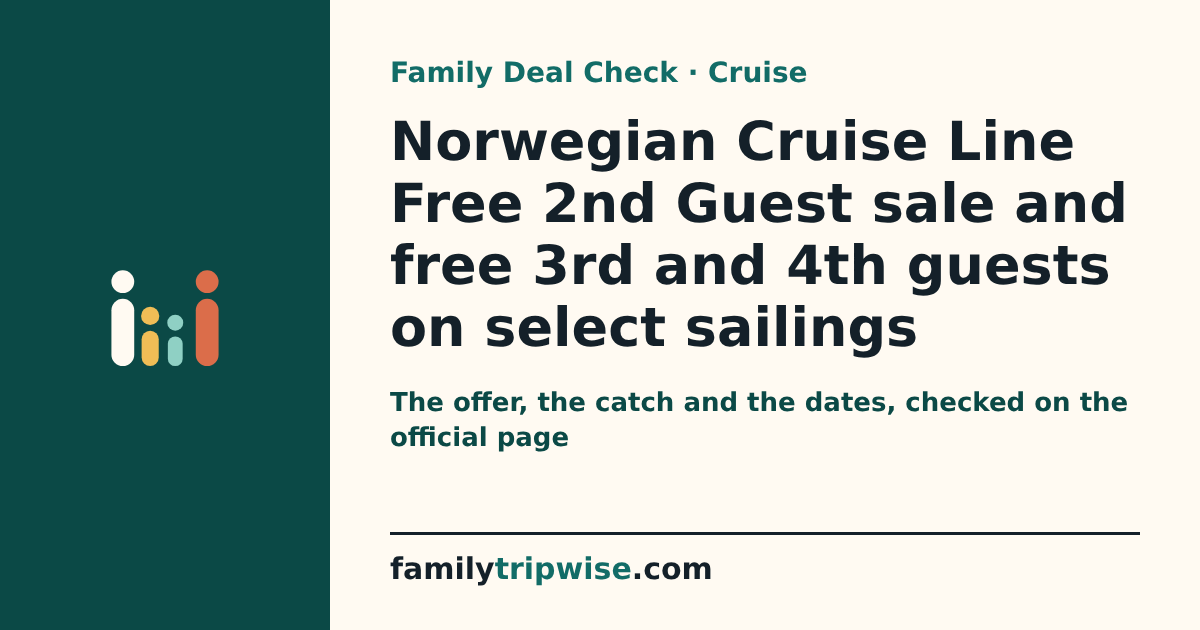
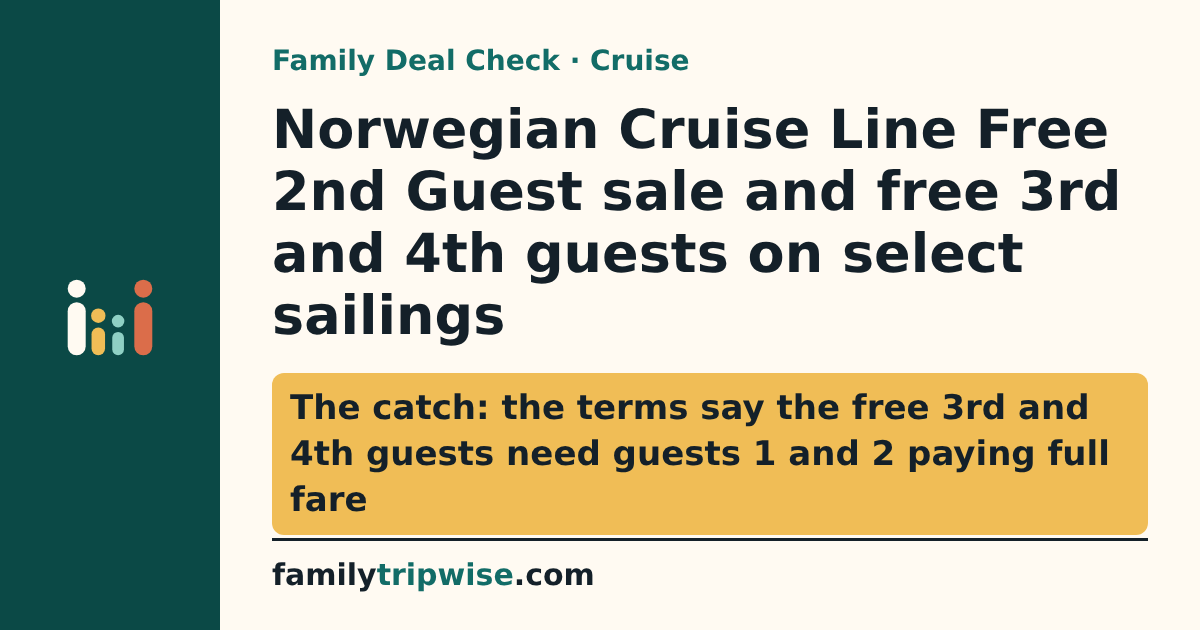
G13 persona cycle 2: per-deal cards quote the page's catch, larger type; card text manifest + staleness test; plainer deals card line; accurate alts
Claude-Session: https://claude.ai/code/session_018uWk6uZGPbEmhYkb1zd9P3

diff --git a/site/deals/norwegian-free-2nd-guest-3rd-4th-free.html b/site/deals/norwegian-free-2nd-guest-3rd-4th-free.html
@@ -15,7 +15,7 @@
     <meta property="og:image:type" content="image/png">
     <meta property="og:image:width" content="1200">
     <meta property="og:image:height" content="630">
-    <meta property="og:image:alt" content="Family Deal Check from Family Tripwise: the offer, the catch and the dates, checked on the official page">
+    <meta property="og:image:alt" content="Family Deal Check: Norwegian Cruise Line Free 2nd Guest sale and free 3rd and 4th guests on select sailings. The catch: the terms say the free 3rd and 4th guests need guests 1 and 2 paying full fare">
     <meta name="twitter:card" content="summary_large_image">
     <link rel="stylesheet" href="../styles.css">
   </head>

diff --git a/site/deals/atlantis-bahamas-fall-into-paradise.html b/site/deals/atlantis-bahamas-fall-into-paradise.html
@@ -15,7 +15,7 @@
     <meta property="og:image:type" content="image/png">
     <meta property="og:image:width" content="1200">
     <meta property="og:image:height" content="630">
-    <meta property="og:image:alt" content="Family Deal Check from Family Tripwise: the offer, the catch and the dates, checked on the official page">
+    <meta property="og:image:alt" content="Family Deal Check: Atlantis Bahamas Fall Into Paradise: up to 35% off 4+ nights, $250 resort credit. The catch: Thanksgiving week and mid-December to January 1 are blacked out">
     <meta name="twitter:card" content="summary_large_image">
     <link rel="stylesheet" href="../styles.css">
   </head>

diff --git a/site/deals/margaritaville-at-sea-black-friday-early-access.html b/site/deals/margaritaville-at-sea-black-friday-early-access.html
@@ -15,7 +15,7 @@
     <meta property="og:image:type" content="image/png">
     <meta property="og:image:width" content="1200">
     <meta property="og:image:height" content="630">
-    <meta property="og:image:alt" content="Family Deal Check from Family Tripwise: the offer, the catch and the dates, checked on the official page">
+    <meta property="og:image:alt" content="Family Deal Check: Margaritaville at Sea Black Friday Early Access: 3rd and 4th guests sail free. The catch: taxes, fees and port expenses still apply to every guest">
     <meta name="twitter:card" content="summary_large_image">
     <link rel="stylesheet" href="../styles.css">
   </head>

diff --git a/site/deals/msc-cruises-35-off-kids-sail-free.html b/site/deals/msc-cruises-35-off-kids-sail-free.html
@@ -15,7 +15,7 @@
     <meta property="og:image:type" content="image/png">
     <meta property="og:image:width" content="1200">
     <meta property="og:image:height" content="630">
-    <meta property="og:image:alt" content="Family Deal Check from Family Tripwise: the offer, the catch and the dates, checked on the official page">
+    <meta property="og:image:alt" content="Family Deal Check: MSC Cruises up to 35% off with kids 17 and under sailing free as 3rd and 4th guests. The catch: the kids still pay government fees and taxes">
     <meta name="twitter:card" content="summary_large_image">
     <link rel="stylesheet" href="../styles.css">
   </head>

diff --git a/site/deals/legoland-california-hotel-kids-tickets-39.html b/site/deals/legoland-california-hotel-kids-tickets-39.html
@@ -15,7 +15,7 @@
     <meta property="og:image:type" content="image/png">
     <meta property="og:image:width" content="1200">
     <meta property="og:image:height" content="630">
-    <meta property="og:image:alt" content="Family Deal Check from Family Tripwise: the offer, the catch and the dates, checked on the official page">
+    <meta property="og:image:alt" content="Family Deal Check: LEGOLAND California hotel package: kids' tickets from $39 a day. The catch: reservations are non-refundable and parking is extra">
     <meta name="twitter:card" content="summary_large_image">
     <link rel="stylesheet" href="../styles.css">
   </head>

diff --git a/site/deals/great-wolf-lodge-fall-flash-sale.html b/site/deals/great-wolf-lodge-fall-flash-sale.html
@@ -15,7 +15,7 @@
     <meta property="og:image:type" content="image/png">
     <meta property="og:image:width" content="1200">
     <meta property="og:image:height" content="630">
-    <meta property="og:image:alt" content="Family Deal Check from Family Tripwise: the offer, the catch and the dates, checked on the official page">
+    <meta property="og:image:alt" content="Family Deal Check: Great Wolf Lodge Fall Flash Sale: up to 40% off suites. The catch: a family of 4 adds an extra-person fee for each extra guest">
     <meta name="twitter:card" content="summary_large_image">
     <link rel="stylesheet" href="../styles.css">
   </head>

diff --git a/site/deals/royal-caribbean-kids-sail-free.html b/site/deals/royal-caribbean-kids-sail-free.html
@@ -15,7 +15,7 @@
     <meta property="og:image:type" content="image/png">
     <meta property="og:image:width" content="1200">
     <meta property="og:image:height" content="630">
-    <meta property="og:image:alt" content="Family Deal Check from Family Tripwise: the offer, the catch and the dates, checked on the official page">
+    <meta property="og:image:alt" content="Family Deal Check: Royal Caribbean Kids Sail Free and free 3rd and 4th guests. The catch: every guest still pays taxes, fees and port expenses">
     <meta name="twitter:card" content="summary_large_image">
     <link rel="stylesheet" href="../styles.css">
   </head>

diff --git a/site/deals/club-med-all-inclusive-kids-under-4.html b/site/deals/club-med-all-inclusive-kids-under-4.html
@@ -15,7 +15,7 @@
     <meta property="og:image:type" content="image/png">
     <meta property="og:image:width" content="1200">
     <meta property="og:image:height" content="630">
-    <meta property="og:image:alt" content="Family Deal Check from Family Tripwise: the offer, the catch and the dates, checked on the official page">
+    <meta property="og:image:alt" content="Family Deal Check: Club Med all-inclusive offer: kids under 4 stay free, up to 40% off. The catch: only children under 4 are shown as free">
     <meta name="twitter:card" content="summary_large_image">
     <link rel="stylesheet" href="../styles.css">
   </head>

diff --git a/site/deals/seaworld-orlando-2027-fun-card.html b/site/deals/seaworld-orlando-2027-fun-card.html
@@ -15,7 +15,7 @@
     <meta property="og:image:type" content="image/png">
     <meta property="og:image:width" content="1200">
     <meta property="og:image:height" content="630">
-    <meta property="og:image:alt" content="Family Deal Check from Family Tripwise: the offer, the catch and the dates, checked on the official page">
+    <meta property="og:image:alt" content="Family Deal Check: SeaWorld Orlando 2027 Fun Card: rest of 2026 included. The catch: the offer page shows no child price">
     <meta name="twitter:card" content="summary_large_image">
     <link rel="stylesheet" href="../styles.css">
   </head>

diff --git a/site/deals/index.html b/site/deals/index.html
@@ -15,7 +15,7 @@
     <meta property="og:image:type" content="image/png">
     <meta property="og:image:width" content="1200">
     <meta property="og:image:height" content="630">
-    <meta property="og:image:alt" content="Family Deal Checks from Family Tripwise: what a travel deal is worth to a family of four">
+    <meta property="og:image:alt" content="Family Deal Checks from Family Tripwise: family travel deals, checked for what you get and the catch">
     <meta name="twitter:card" content="summary_large_image">
     <link rel="stylesheet" href="../styles.css">
   </head>
